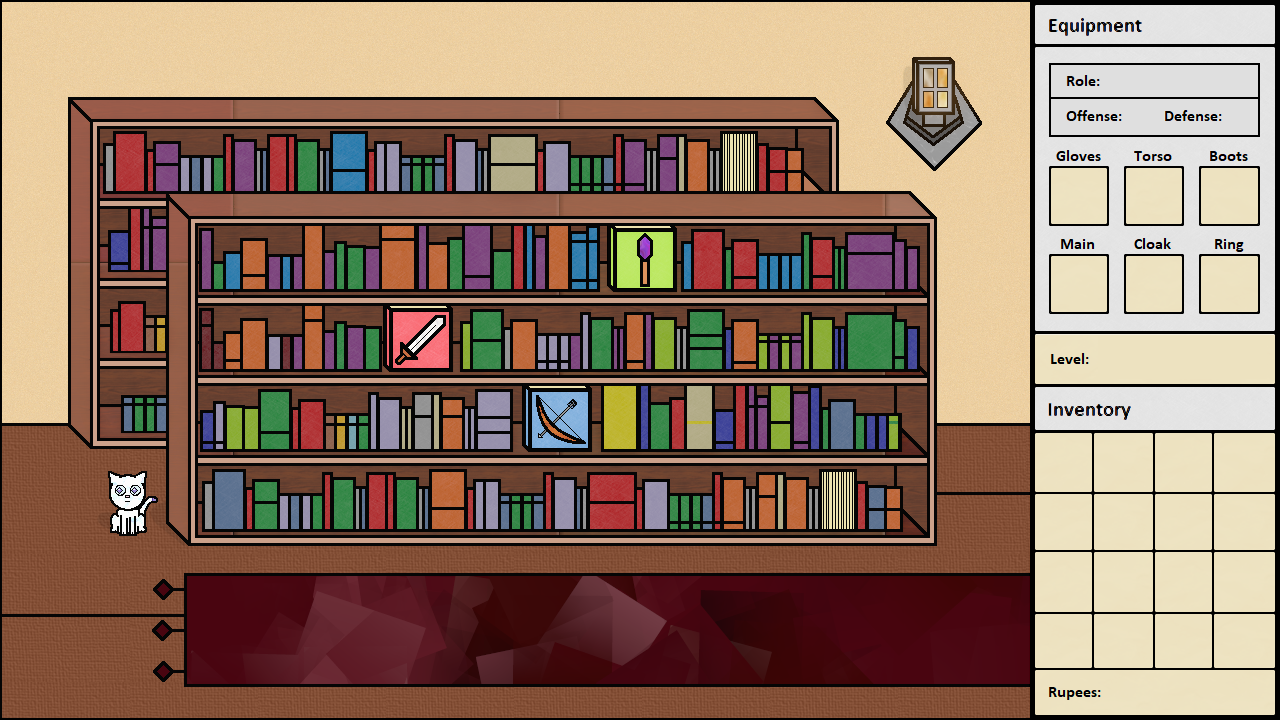
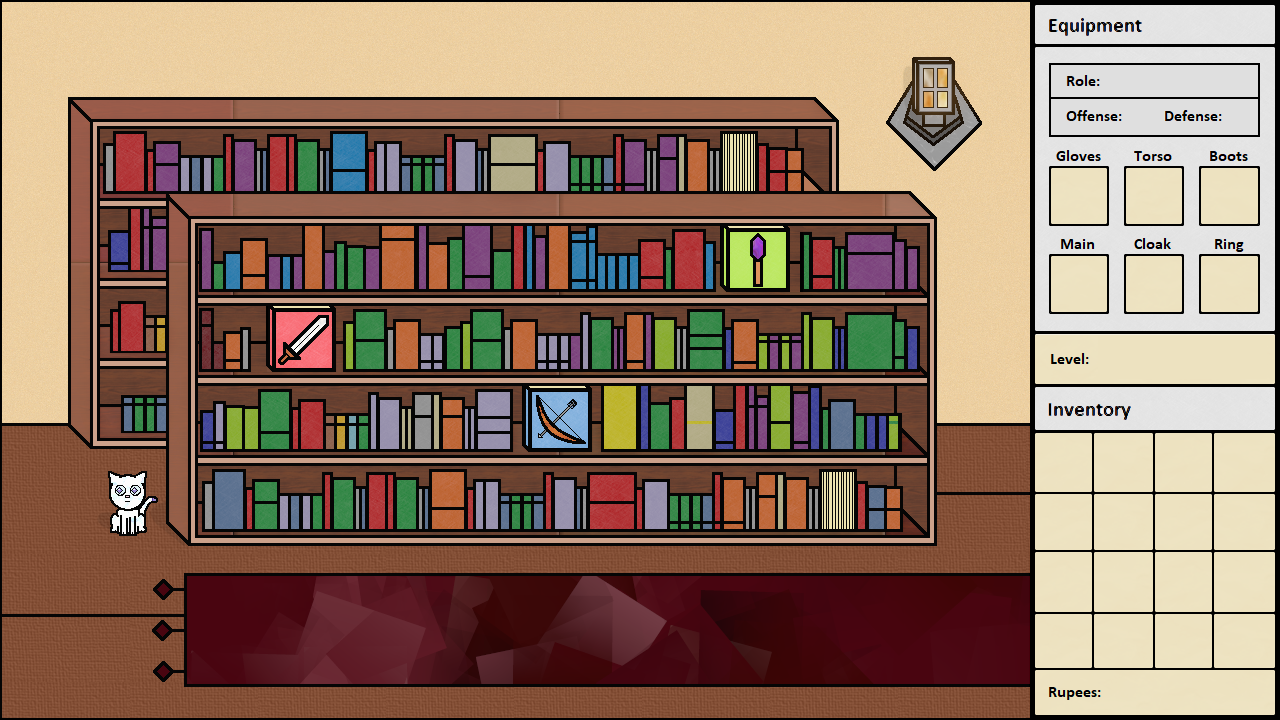
Finished the Apothis cutscenes.
Added some battle sprites for potential mini bosses.

Fixed button layout in academia so the books weren't overlapping

Changed region(s): [[0.4688, 0.3056, 0.625, 0.4278], [0.1875, 0.4278, 0.375, 0.5194]]

diff --git a/project_eterna.py b/project_eterna.py
@@ -1555,8 +1555,8 @@ if __name__ == '__main__':
     upgrade_button = UiElement("upgrade button", 860, 680, graphic_dict["upgrade_button_img"])
     leave_button = UiElement("leave button", 970, 680, graphic_dict["leave_button_img"])
     rest_button = UiElement("rest button", 860, 680, graphic_dict["rest_button_img"])
-    mage_learn_button = UiElement("mage learn button", 650, 250, graphic_dict["learn_button"])
-    fighter_learn_button = UiElement("fighter learn button", 420, 330, graphic_dict["learn_button"])
+    mage_learn_button = UiElement("mage learn button", 763, 250, graphic_dict["learn_button"])
+    fighter_learn_button = UiElement("fighter learn button", 303, 330, graphic_dict["learn_button"])
     scout_learn_button = UiElement("scout learn button", 560, 410, graphic_dict["learn_button"])
     barrier_learn_button = UiElement("barrier learn button", 505, 300, graphic_dict["skill_learn_button"])
     hard_strike_learn_button = UiElement("hard strike learn button", 505, 300, graphic_dict["skill_learn_button"])
@@ -3952,6 +3952,10 @@ if __name__ == '__main__':
                                             player.knowledge["mage"] -= 50
                                             barrier_learned = True
                                             button_highlighted = False
+                                            mage_learn_clicked = False
+                                            book_appended = False
+                                            books.clear()
+                                            skill_learn_items.clear()
                                         else:
                                             info_text_1 = "50 mage knowledge required to learn."
                                     else:
@@ -3975,7 +3979,11 @@ if __name__ == '__main__':
                                             info_text_2 = "Skill added. 50 knowledge used."
                                             player.knowledge["fighter"] -= 50
                                             hard_strike_learned = True
+                                            fighter_learn_clicked = False
+                                            book_appended = False
                                             button_highlighted = False
+                                            books.clear()
+                                            skill_learn_items.clear()
                                         else:
                                             info_text_1 = "50 fighter knowledge required to learn."
                                     else:
@@ -4000,6 +4008,10 @@ if __name__ == '__main__':
                                             player.knowledge["scout"] -= 50
                                             sharp_sense_learned = True
                                             button_highlighted = False
+                                            scout_learn_clicked = False
+                                            book_appended = False
+                                            books.clear()
+                                            skill_learn_items.clear()
                                         else:
                                             info_text_1 = "50 scout knowledge required to learn."
                                     else:
@@ -4014,18 +4026,20 @@ if __name__ == '__main__':
                             except AttributeError:
                                 pass
 
-                        if academia_button == "mage learn":
-                            mage_learn_clicked = True
-                            button_highlighted = False
-                            first_academy_cond = False
-                        if academia_button == "fighter learn":
-                            fighter_learn_clicked = True
-                            button_highlighted = False
-                            first_academy_cond = False
-                        if academia_button == "scout learn":
-                            scout_learn_clicked = True
-                            button_highlighted = False
-                            first_academy_cond = False
+                        if len(skill_learn_items) == 0 and len(books) == 0:
+                            if academia_button == "mage learn":
+                                mage_learn_clicked = True
+                                button_highlighted = False
+                                first_academy_cond = False
+                            if academia_button == "fighter learn":
+                                fighter_learn_clicked = True
+                                button_highlighted = False
+                                first_academy_cond = False
+                            if academia_button == "scout learn":
+                                scout_learn_clicked = True
+                                button_highlighted = False
+                                first_academy_cond = False
+
                         if academia_button == "leave":
                             book_appended = False
                             learn_clicked = False
@@ -4122,10 +4136,10 @@ if __name__ == '__main__':
                         # the first time player enters academy, show an arrow pointing to their book button
                         if first_academy_cond:
                             if player.role == "mage":
-                                directional_arrow.update(640, 195, graphic_dict["arrow_down"])
+                                directional_arrow.update(753, 195, graphic_dict["arrow_down"])
                                 screen.blit(directional_arrow.surf, directional_arrow.rect)
                             if player.role == "fighter":
-                                directional_arrow.update(415, 280, graphic_dict["arrow_down"])
+                                directional_arrow.update(298, 280, graphic_dict["arrow_down"])
                                 screen.blit(directional_arrow.surf, directional_arrow.rect)
                             if player.role == "scout":
                                 directional_arrow.update(555, 360, graphic_dict["arrow_down"])
